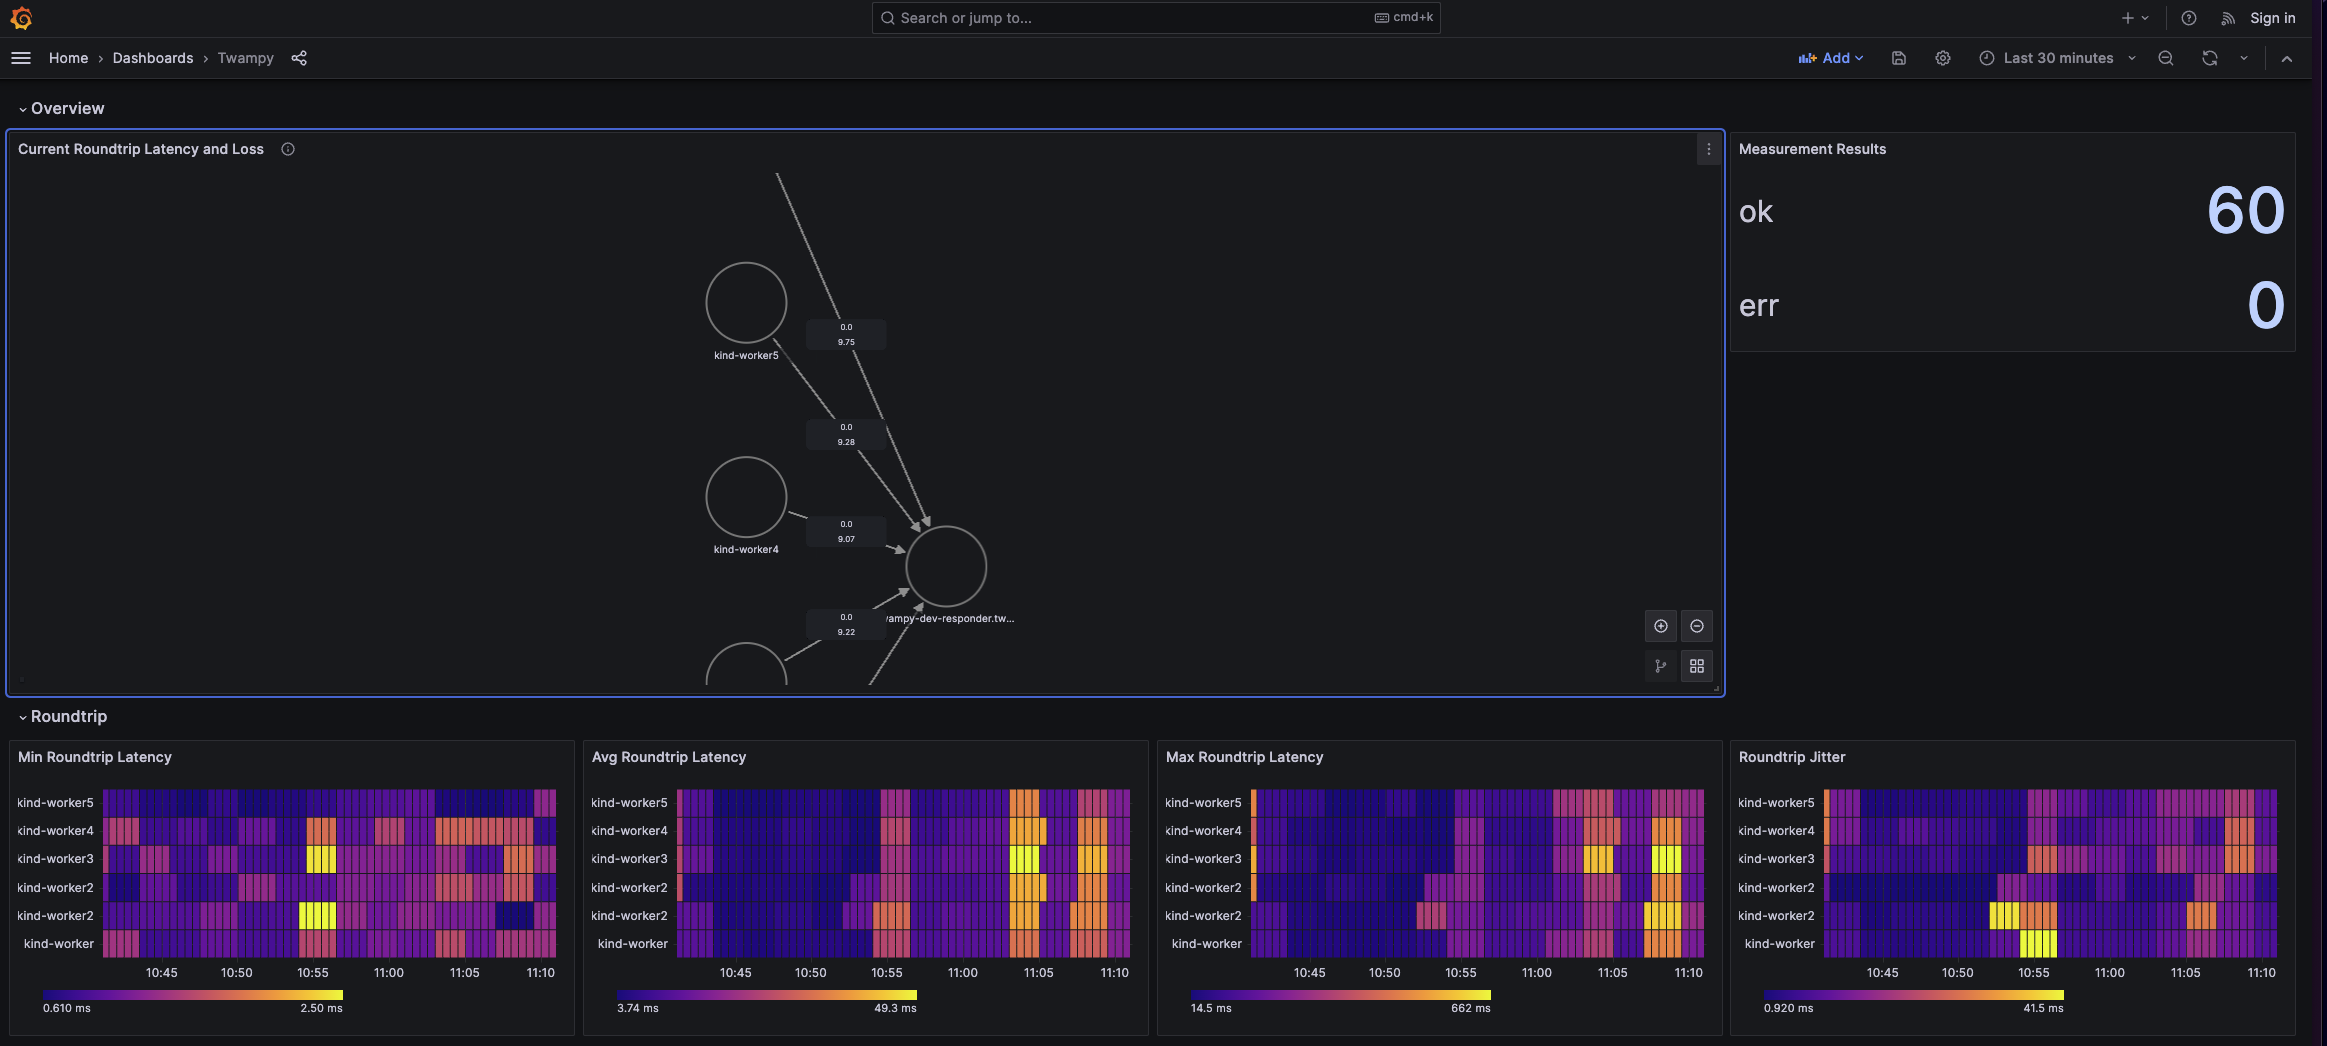
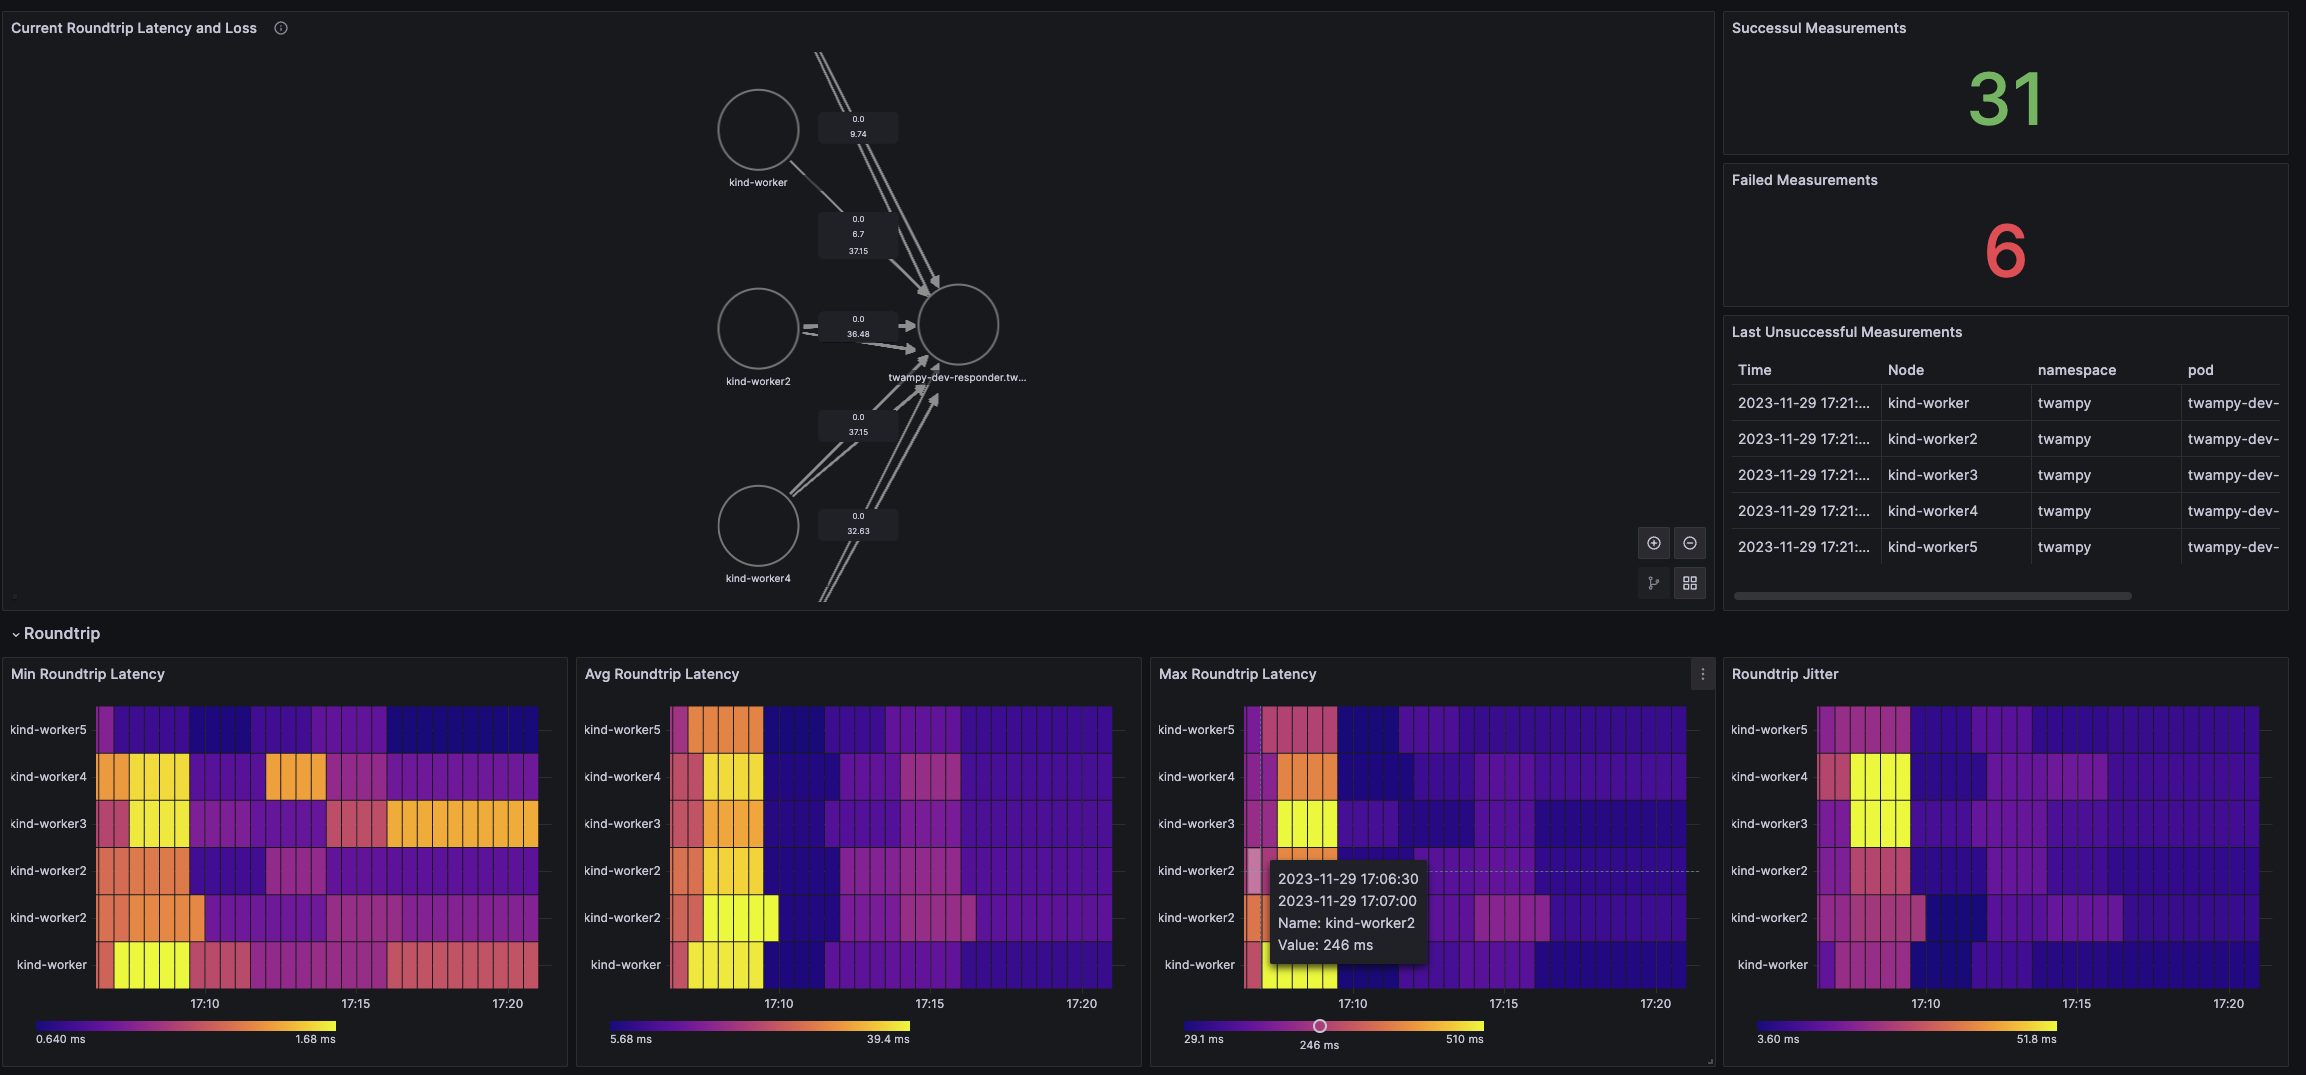
Prometheus: Fix metrics in dashboard and code
This commit changes the type of metric for twampy_result from enum
to counter to better count successful and failed measurements.
It also updates this section of the Grafana dashboard.

diff --git a/twampy.py b/twampy.py
@@ -88,7 +88,7 @@ import argparse
 import signal
 import select
 import json
-from prometheus_client import start_http_server, Histogram, Gauge, Enum
+from prometheus_client import start_http_server, Gauge, Counter
 
 #############################################################################
 
@@ -310,7 +310,7 @@ class twampStatistics():
             SenderJitter.labels('inbound').set(round(self.jitterIB,2))
             SenderJitter.labels('roundtrip').set(round(self.jitterRT,2))
 
-            SenderResult.state('ok')
+            SenderResult.labels('ok').inc(1)
 
             if args.nodegraph:
                 avgLatency = round(self.sumRT / self.count, 2)
@@ -318,6 +318,7 @@ class twampStatistics():
                 SenderEdge.labels("{0}-{1}".format(hostname, sip), hostname, sip, loss, avgLatency).set(1)
         else:
             SenderEdge.labels("{0}-{1}".format(hostname, sip), hostname, sip, -1, -1).set(0)
+            SenderResult.labels('err').inc(1)
 
 
     def dump(self, total):
@@ -882,7 +883,7 @@ if __name__ == '__main__':
         SenderLatencyMax = Gauge('twampy_latency_max', 'TWAMP max latency in ms', ['direction'])
         SenderJitter = Gauge('twampy_jitter', 'TWAMP jitter in ms', ['direction'])
         SenderLoss = Gauge('twampy_loss', 'TWAMP loss in percent', ['direction'])
-        SenderResult = Enum('twampy_result', 'TWAMP result', states=['ok', 'error'])
+        SenderResult = Counter('twampy_result', 'If the measurement has succedded or not', ['result'])
 
 
         start_http_server(port)
